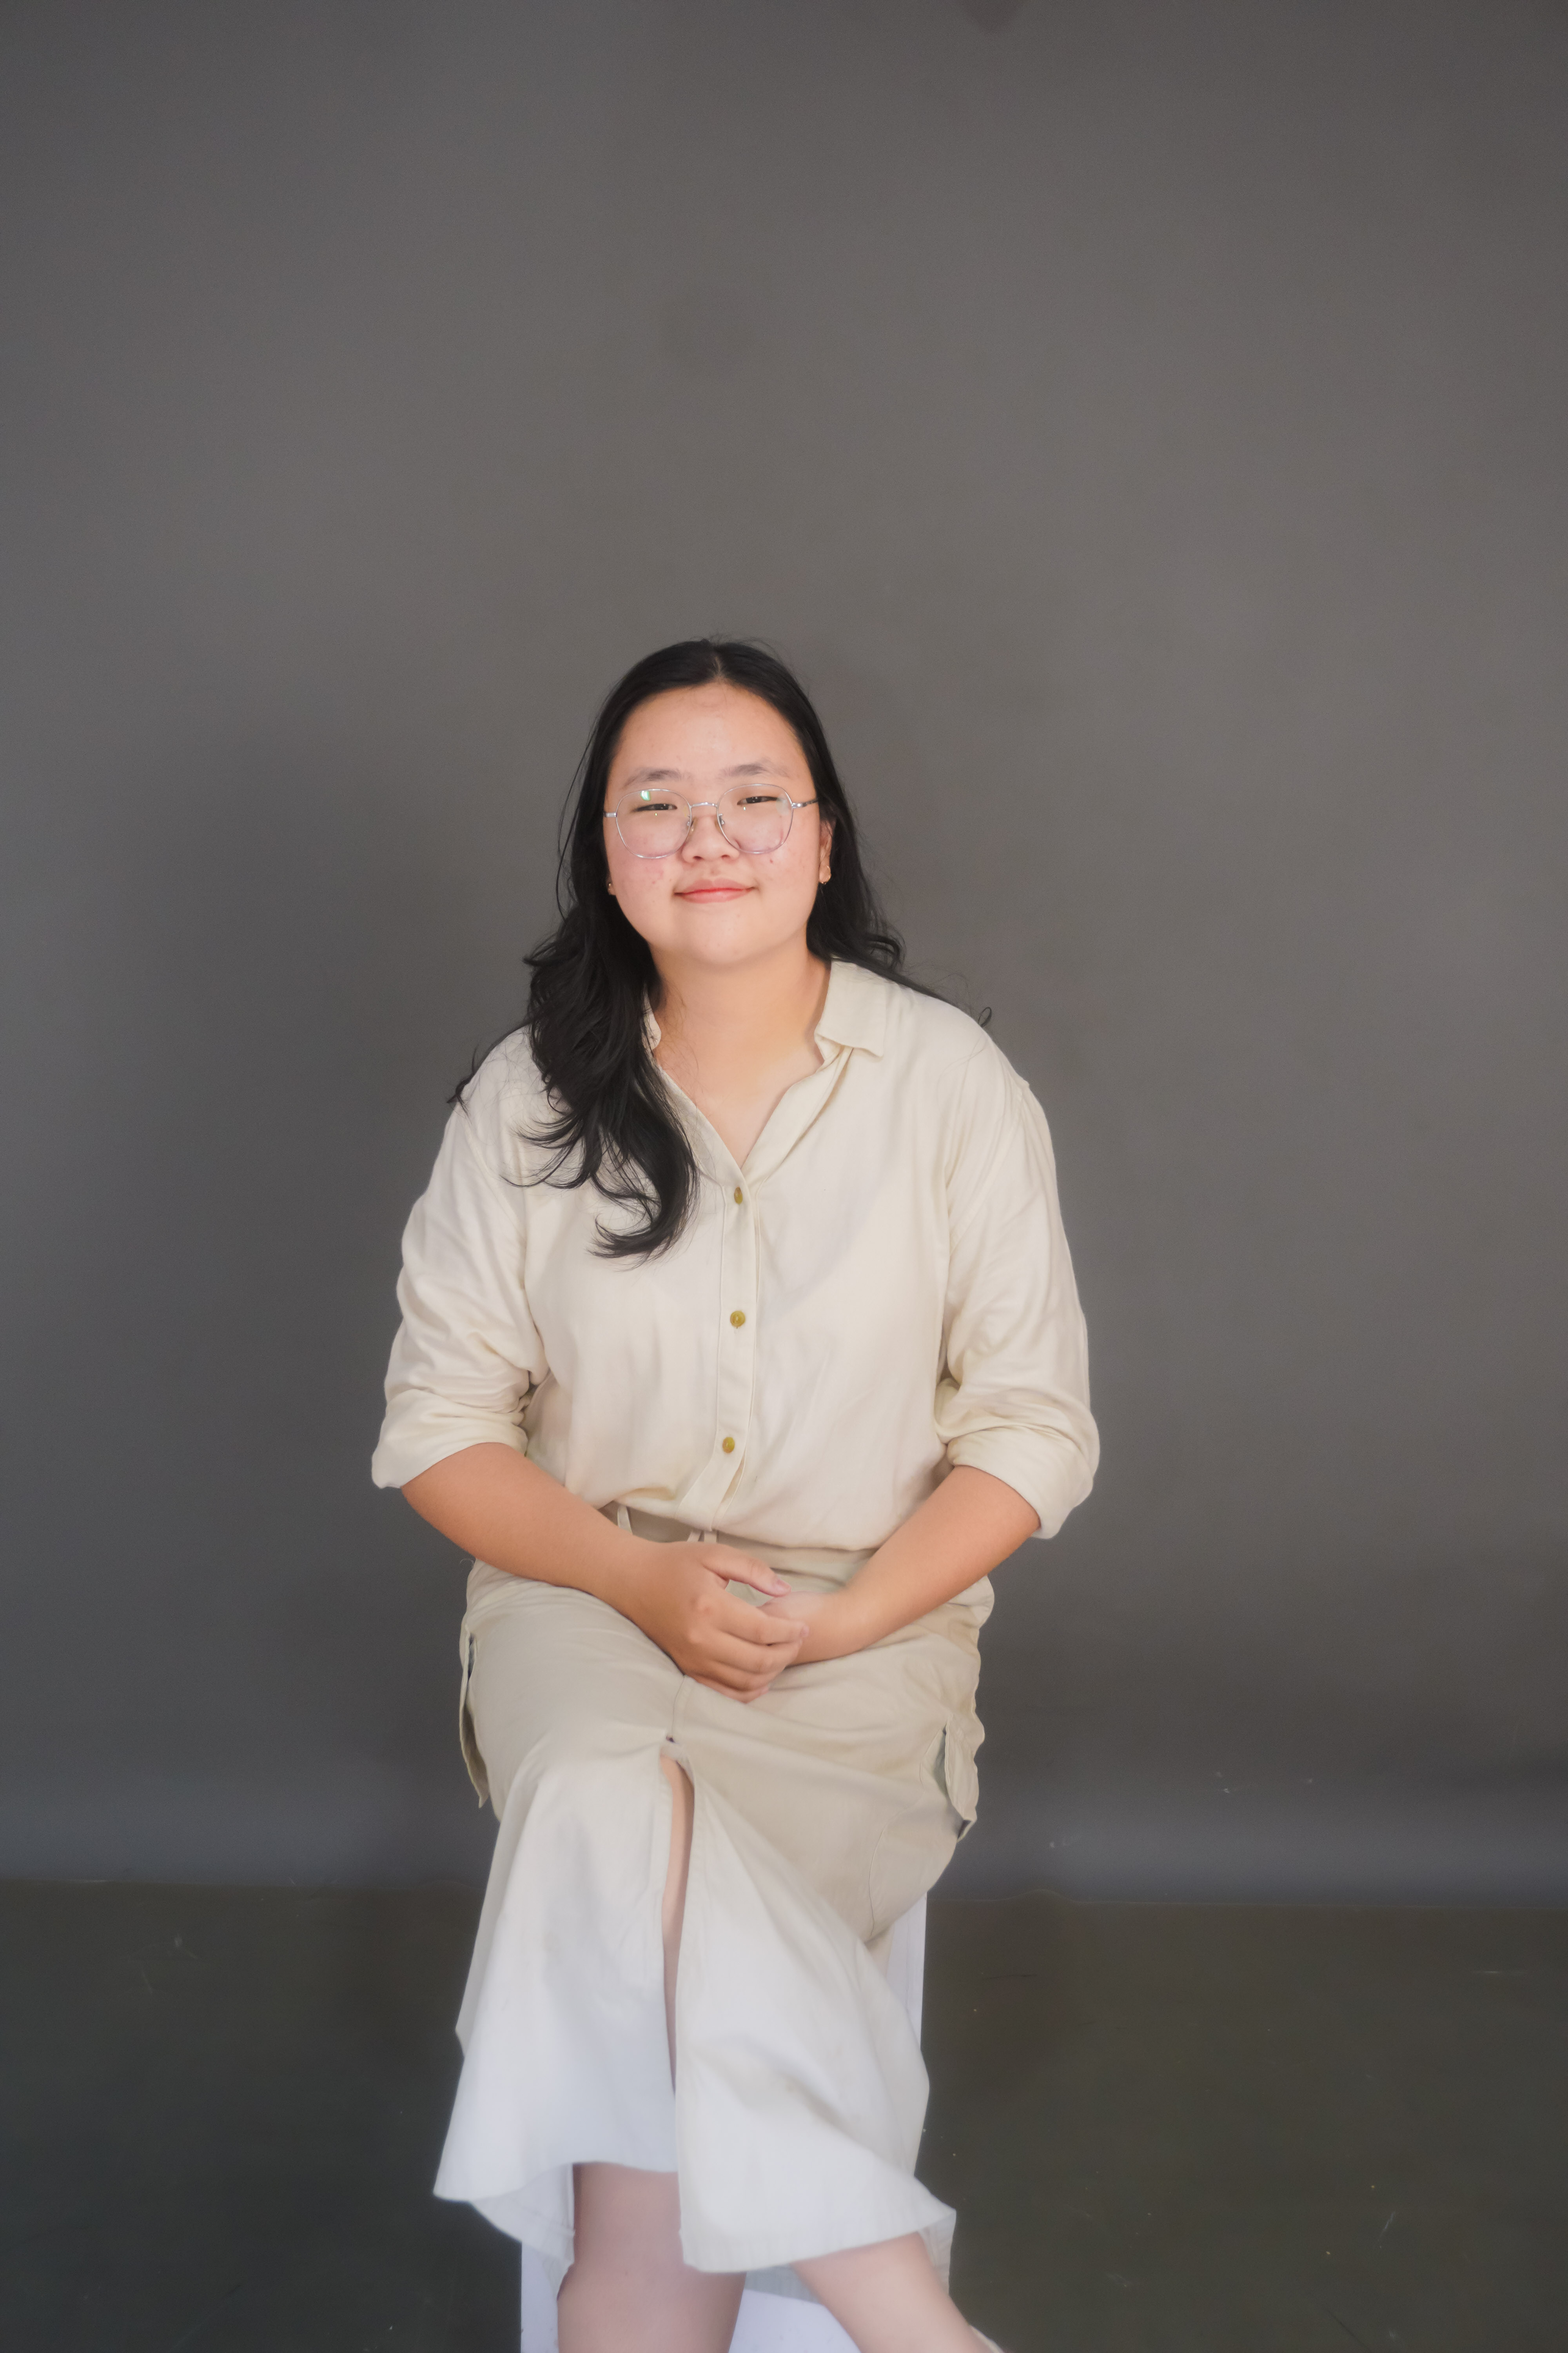
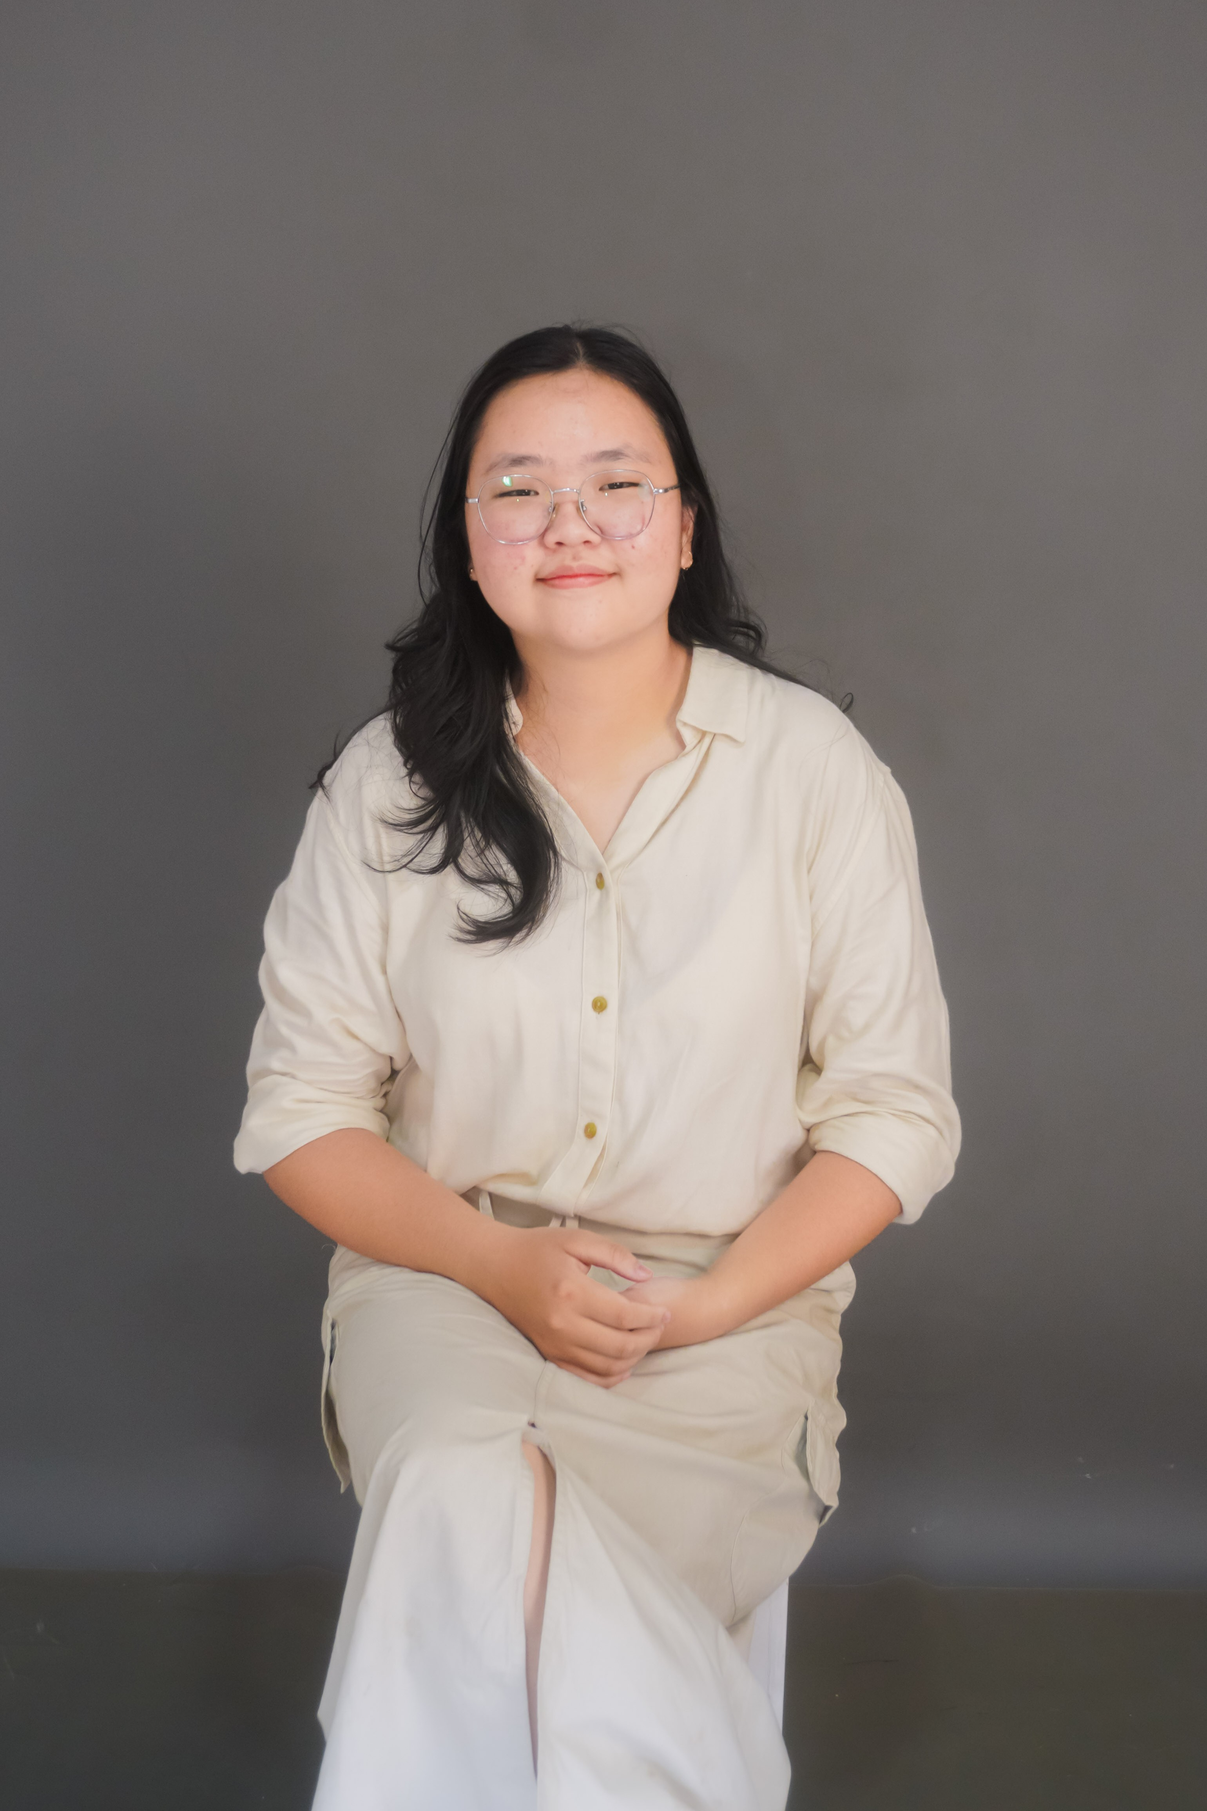
Refactor code structure for improved readability and maintainability

Changed region(s): [[0.0, 0.1558, 1.0, 1.0], [0.7481, 0.0, 1.0, 0.0623], [0.5922, 0.0, 0.6545, 0.0312]]

diff --git a/src/components/mentor/mentor-section.tsx b/src/components/mentor/mentor-section.tsx
@@ -34,15 +34,52 @@ const MENTORS: Mentor[] = [
   {
     name: "Joceline Sudigdo",
     role: "Frontend Praetorian",
-    bio: "Profil mentor akan ditampilkan setelah tim pendamping GitReady dikonfirmasi.",
+    bio: "Mahasiswa Computer Science B29 yang passionate di bidang teknologi, software development, dan pengalaman digital kreatif, dengan minat pada web development, game development, serta pemrograman. Saya senang belajar, memecahkan masalah, bekerja dalam tim, dan menciptakan proyek digital yang bermakna.",
     imageSrc: "/images/joceline.jpg",
+    socials: [
+      {
+        label: "LinkedIn",
+        href: "https://www.linkedin.com/in/joceline-sudigdo-98a262224/",
+      }
+    ]
   },
   {
-    name: "Mentor 03",
-    role: "Nama segera diumumkan",
-    bio: "Profil mentor akan ditampilkan setelah tim pendamping GitReady dikonfirmasi.",
+    name: "Muhammad Luthfi Abrar",
+    role: "UI/UX Praetorian",
+    bio: "Mahasiswa Computer Science di BINUS University yang memiliki ketertarikan pada UI/UX dan pengembangan produk digital. Sebagai UI/UX Praetorian, berfokus menciptakan pengalaman pengguna yang intuitif, fungsional, dan menarik.",
+    imageSrc: "/images/luthfi.png",
+    socials: [
+      {
+        label: "LinkedIn",
+        href: "https://www.linkedin.com/in/muhammad-luthfi-abrar-780bab382/",
+      },
+    ],
   },
-];
+  {
+    name: "Rafael Mikha Elkana",
+    role: "C Programming Praetorian",
+    bio: "Mahasiswa BINUS University yang memiliki ketertarikan pada pemrograman dan pengembangan solusi berbasis teknologi. Sebagai C Programming Praetorian, berfokus mengasah kemampuan pemrograman, logika, dan problem-solving.",
+    imageSrc: "/images/rafael.png",
+    socials: [
+      {
+        label: "LinkedIn",
+        href: "https://www.linkedin.com/in/rafael-mikha-elkana-65a90438a/",
+      },
+    ],
+  },
+  {
+    name: "Evendy Janova Hartono",
+    role: "Java Programming Praetorian",
+    bio: "Mahasiswa yang memiliki ketertarikan pada pemrograman dan pengembangan teknologi. Sebagai Java Programming Praetorian, berfokus mengembangkan kemampuan coding, logika, dan problem-solving melalui pemrograman Java.",
+    imageSrc: "/images/evendy.jpeg",
+    socials: [
+      {
+        label: "LinkedIn",
+        href: "https://www.linkedin.com/in/evendy-hartono-484279385/",
+      },
+    ],
+  },
+]
 
 function MentorRow({ mentor, index, open, onToggle }: { mentor: Mentor; index: number; open: boolean; onToggle: () => void }) {
   const reduceMotion = useReducedMotion();
@@ -122,7 +159,7 @@ function MentorRow({ mentor, index, open, onToggle }: { mentor: Mentor; index: n
                       alt={mentor.name}
                       width={720}
                       height={900}
-                      className="h-full w-full -translate-y-10 scale-150 object-cover object-top transition-[filter,transform] duration-700 ease-[cubic-bezier(0.16,1,0.3,1)] group-hover/mentor-photo:scale-[1.15] group-hover/mentor-photo:grayscale motion-reduce:transition-none"
+                      className="h-full w-full scale-100 object-cover object-top transition-[filter,transform] duration-700 ease-[cubic-bezier(0.16,1,0.3,1)] group-hover/mentor-photo:scale-[1.15] group-hover/mentor-photo:grayscale motion-reduce:transition-none"
                     />
                     {linkedinProfile ? (
                       <a

diff --git a/src/components/detail/event-details-section.tsx b/src/components/detail/event-details-section.tsx
@@ -85,6 +85,13 @@ export function EventDetailsSection() {
             transition={{ duration: reduceMotion ? 0 : 0.62, delay: reduceMotion ? 0 : DETAIL_ITEMS.length * 0.07, ease: EASE }}
             className="group relative grid min-h-36 overflow-hidden border-b border-navy px-1 py-8 sm:min-h-40 sm:grid-cols-[10rem_1fr] sm:items-center sm:px-5 lg:min-h-44 lg:grid-cols-[13rem_1fr] lg:px-6"
           >
+            <a
+              href="https://bncc.in/REGISTGITREADY2.0"
+              target="_blank"
+              rel="noopener noreferrer"
+              aria-label="Buka formulir pendaftaran"
+              className="absolute inset-0 z-20 focus-visible:outline-none focus-visible:ring-2 focus-visible:ring-brand focus-visible:ring-offset-4 focus-visible:ring-offset-white"
+            />
             <span
               aria-hidden="true"
               className="absolute inset-0 -translate-x-[101%] bg-navy transition-transform duration-700 ease-[cubic-bezier(0.16,1,0.3,1)] group-hover:translate-x-0 motion-reduce:transition-none"
@@ -93,25 +100,13 @@ export function EventDetailsSection() {
               Pendaftaran
             </dt>
             <dd className="relative z-10 mt-3 flex justify-end sm:mt-0">
-              {GITREADY_EVENT.registrationUrl ? (
-                <a
-                  href={GITREADY_EVENT.registrationUrl}
-                  target="_blank"
-                  rel="noopener noreferrer"
-                  aria-label="Buka formulir pendaftaran"
-                  className="inline-flex size-11 items-center justify-center focus-visible:outline-none focus-visible:ring-2 focus-visible:ring-brand focus-visible:ring-offset-4 focus-visible:ring-offset-white"
-                >
-                  <RegistrationArrow />
-                </a>
-              ) : (
-                <span
-                  aria-disabled="true"
-                  aria-label="Pendaftaran belum dibuka"
-                  className="inline-flex size-11 items-center justify-center"
-                >
-                  <RegistrationArrow />
-                </span>
-              )}
+              <span
+                aria-hidden="true"
+                className="relative block size-11 overflow-hidden text-ink transition-colors duration-500 group-hover:text-white"
+              >
+                <ArrowRight className="absolute inset-0 m-auto size-7 transition-transform duration-500 ease-[cubic-bezier(0.16,1,0.3,1)] group-hover:translate-x-[140%] group-hover:-translate-y-[140%] motion-reduce:transition-none" />
+                <ArrowUpRight className="absolute inset-0 m-auto size-7 -translate-x-[140%] translate-y-[140%] transition-transform duration-500 ease-[cubic-bezier(0.16,1,0.3,1)] group-hover:translate-x-0 group-hover:translate-y-0 motion-reduce:transition-none" />
+              </span>
             </dd>
           </motion.div>
         </dl>

diff --git a/src/components/experience-sections.tsx b/src/components/experience-sections.tsx
@@ -20,13 +20,20 @@ export function SimulatorSection() {
   return (
     <section id="simulator-git" data-navbar-theme="dark" className="bg-navy-deep py-28 text-white sm:py-36 lg:py-44">
       <div className="mx-auto max-w-7xl px-6 sm:px-8 lg:px-10">
-        <motion.div initial={reveal} whileInView={{ opacity: 1, y: 0 }} viewport={{ once: true, amount: 0.3 }} transition={{ duration: reduceMotion ? 0 : 0.65 }} className="mb-12 grid gap-6 lg:grid-cols-[0.8fr_1.2fr] lg:items-end">
-          <p className="font-mono text-sm text-brand-bright">git status</p>
-          <div>
-            <h2 className="text-balance text-4xl font-semibold tracking-[-0.045em] sm:text-6xl">Coba alurnya, lihat perubahannya.</h2>
-            <p className="mt-5 max-w-2xl text-lg leading-8 text-blue-100/75">Pindahkan perubahan dari working directory sampai GitHub dan pahami fungsi setiap perintah.</p>
-          </div>
-          </motion.div>
+        <motion.div
+          initial={reveal}
+          whileInView={{ opacity: 1, y: 0 }}
+          viewport={{ once: true, amount: 0.3 }}
+          transition={{ duration: reduceMotion ? 0 : 0.65 }}
+          className="mb-12"
+        >
+          <h2 className="text-4xl font-semibold tracking-[-0.045em] sm:text-6xl">
+            Coba alurnya, lihat perubahannya.
+          </h2>
+          <p className="mt-5 max-w-2xl text-lg leading-8 text-blue-100/75">
+            Pindahkan perubahan dari working directory sampai GitHub dan pahami fungsi setiap perintah.
+          </p>
+        </motion.div>
         <GitWorkflowSimulator />
       </div>
     </section>

diff --git a/src/components/hero/portfolio-about-section.tsx b/src/components/hero/portfolio-about-section.tsx
@@ -29,7 +29,7 @@ const capabilities = [
 // ---------------------------------------------------------------------------
 
 const lexySocials = [
-  { label: "GitHub", href: "https://github.com/bintangqurne", icon: "github" },
+  { label: "GitHub", href: "https://github.com/lagxy", icon: "github" },
   {
     label: "LinkedIn",
     href: "https://www.linkedin.com/in/lexy-samuel/",
@@ -348,7 +348,7 @@ function SpeakerHisam() {
             <div className="about-portrait relative h-[460px] w-full shrink-0 overflow-hidden bg-[#061225] sm:h-auto sm:w-[62%] lg:min-h-[640px] lg:max-h-[860px] xl:w-[64%]">
               <motion.div className="absolute inset-0" style={{ scale: reduceMotion ? 1 : portraitScale }}>
                 <Image
-                  src="/images/Hisam.png"
+                  src="/images/hisam.png"
                   alt="Hisam, pemateri GitReady 2026"
                   fill
                   sizes="(max-width: 639px) 100vw, 36vw"

diff --git a/src/components/hero/registration-cta.tsx b/src/components/hero/registration-cta.tsx
@@ -1,5 +1,5 @@
 import type { ComponentProps } from "react";
-import { ArrowRight } from "lucide-react";
+import { ArrowRight, Target } from "lucide-react";
 
 type RegistrationCtaProps = Omit<ComponentProps<"a">, "children"> & {
   onDark?: boolean;
@@ -30,6 +30,8 @@ export function HorizontalSwapArrow() {
 export function RegistrationCta({ className = "", onDark = true, ...props }: RegistrationCtaProps) {
   return (
     <a
+      target="_blank"
+      rel="noopener noreferrer"
       {...props}
       aria-label={props["aria-label"] ?? "Daftar"}
       className={`group inline-flex h-12 items-center justify-center overflow-hidden rounded-xl border border-[#3775AF]/60 p-[3px] shadow-sm transition-[transform,border-color] hover:-translate-y-0.5 hover:border-[#3465A9] focus-visible:outline-none focus-visible:ring-2 focus-visible:ring-[#3465A9] ${onDark ? "bg-white text-ink" : "bg-ink text-white"} ${className}`}

diff --git a/src/constants/event-config.ts b/src/constants/event-config.ts
@@ -44,6 +44,6 @@ export const EVENT_INFO: EventInfoItem[] = GITREADY_EVENT.eventSchedule
     ]
   : [
       { icon: Calendar, label: "Tanggal", value: "Sabtu, 19 September" },
-      { icon: Clock, label: "Waktu", value: "08.00 - 12.40" },
-      { icon: MapPin, label: "Lokasi", value: "Kampus BINUS @Malang (Onsite)" },
+      { icon: Clock, label: "Waktu", value: "08.00 - 12.40 WIB" },
+      { icon: MapPin, label: "Lokasi", value: "BINUS@Malang R0206 - Business Incubator Lab" },
     ];

diff --git a/src/app/page.tsx b/src/app/page.tsx
@@ -13,11 +13,6 @@ import { MentorSection } from "@/components/mentor/mentor-section";
 import { RegistrationStatusSection } from "@/components/registration/registration-status-section";
 import { SponsorsSection } from "@/components/sponsors/sponsor";
 
-export const metadata: Metadata = {
-  title: "GitReady 2026 | Eksperimen",
-  robots: { index: false, follow: false },
-};
-
 export default function CobaPage() {
   return (
     <>
